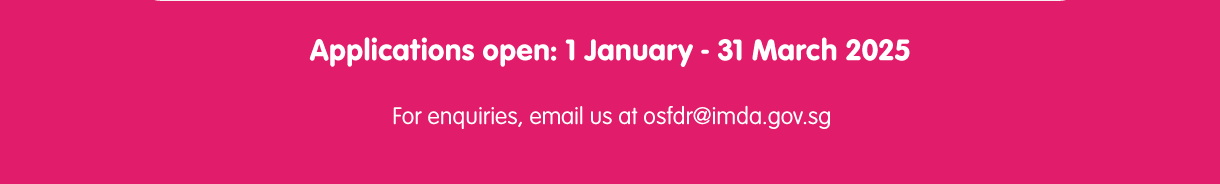
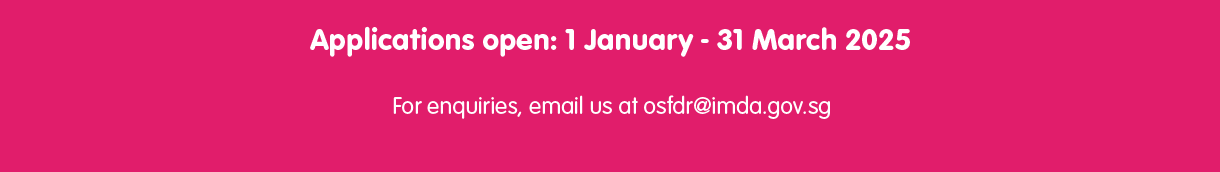
fixed pixel sizes pre export

Changed region(s): [[0.2492, 0.1453, 0.7475, 0.3488], [0.3115, 0.5523, 0.6852, 0.6977], [0.1246, 0.0, 0.8721, 0.0291]]

diff --git a/IMDA/Fund Call Dec 2024/dfl-fundcall-dec24.html b/IMDA/Fund Call Dec 2024/dfl-fundcall-dec24.html
@@ -401,12 +401,6 @@
 
 											<tr>
 												<td class="fluid-img">
-													<img src="imda-logo.png" width="100%" height="62" alt="">
-												</td>
-												<td class="fluid-img">
-													<img src="smart-nation-logo.png" width="100%" height="62" alt="">
-												</td>
-												<td class="fluid-img">
 													<img src="footer-spacer.png" width="100%" height="62" alt="">
 												</td>
 
